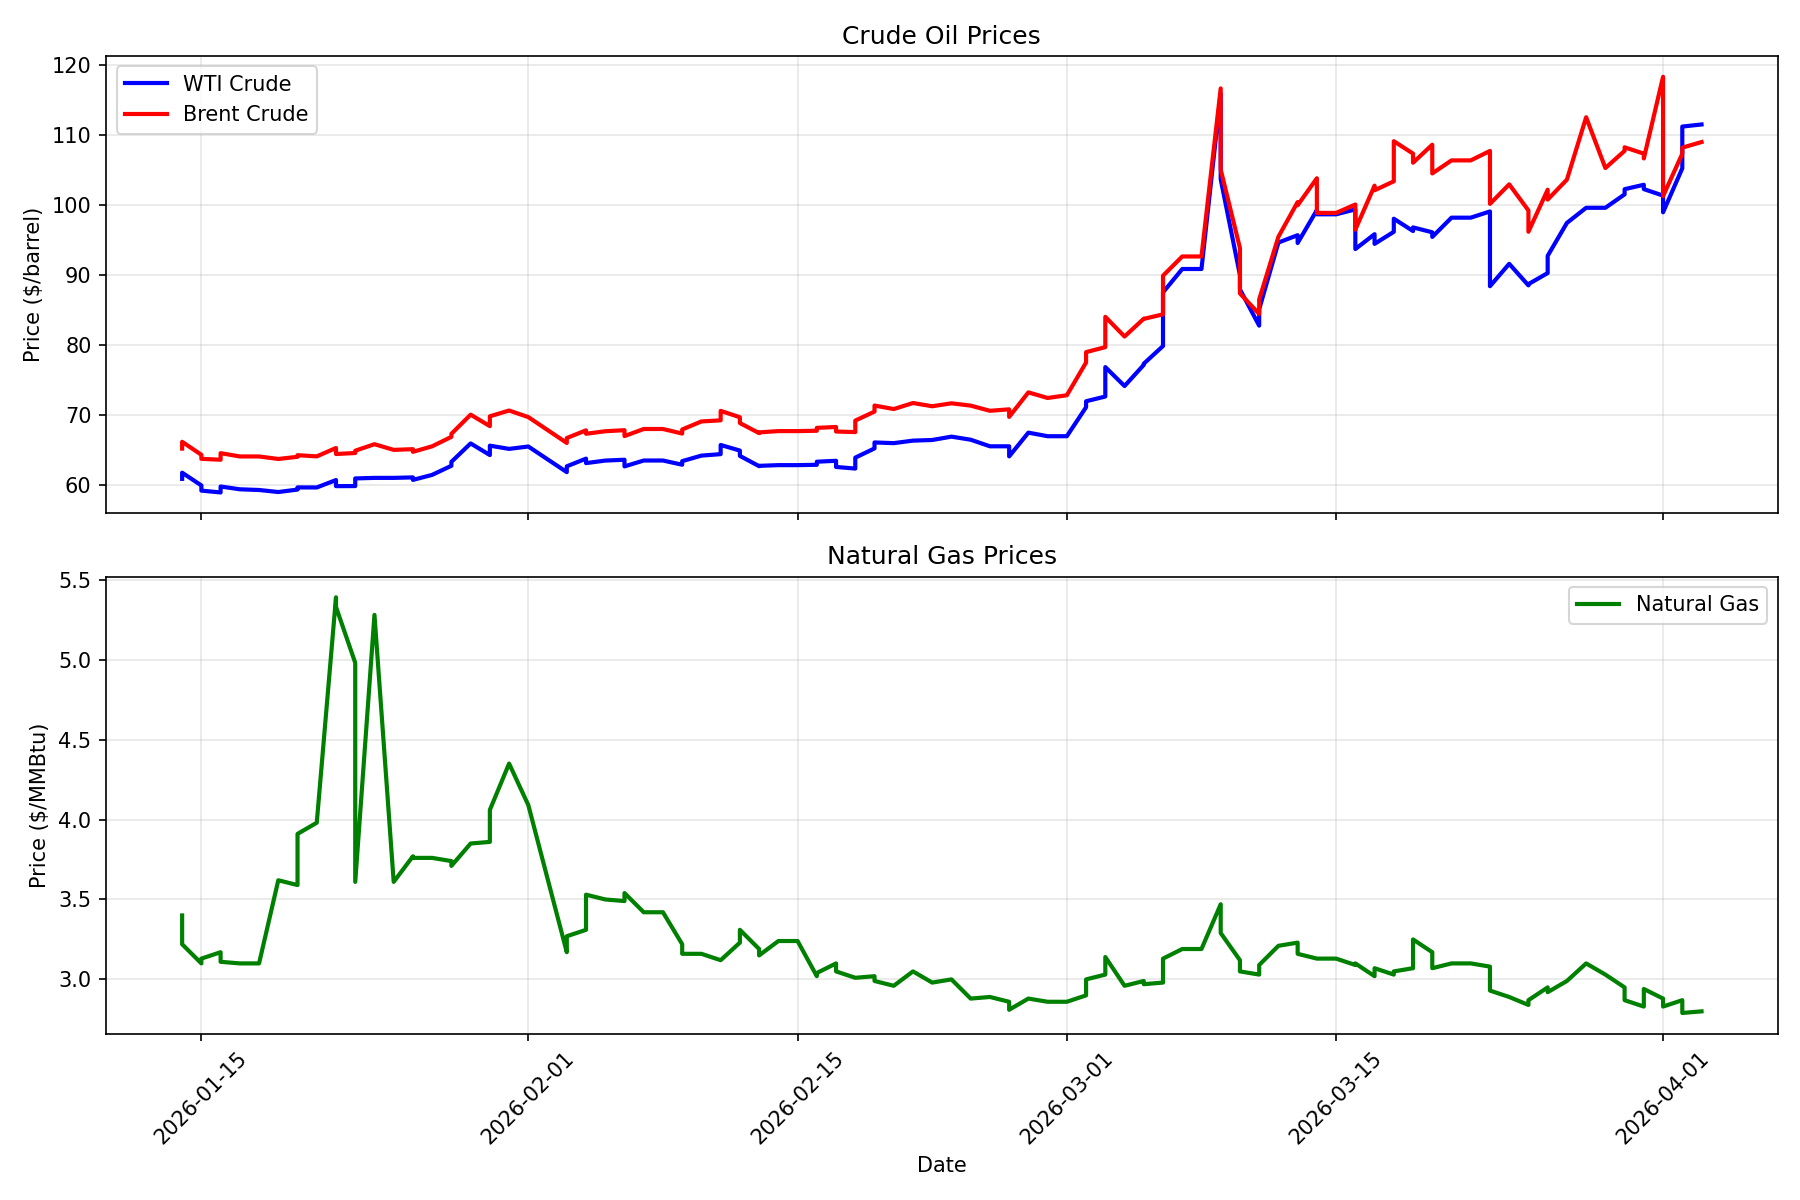
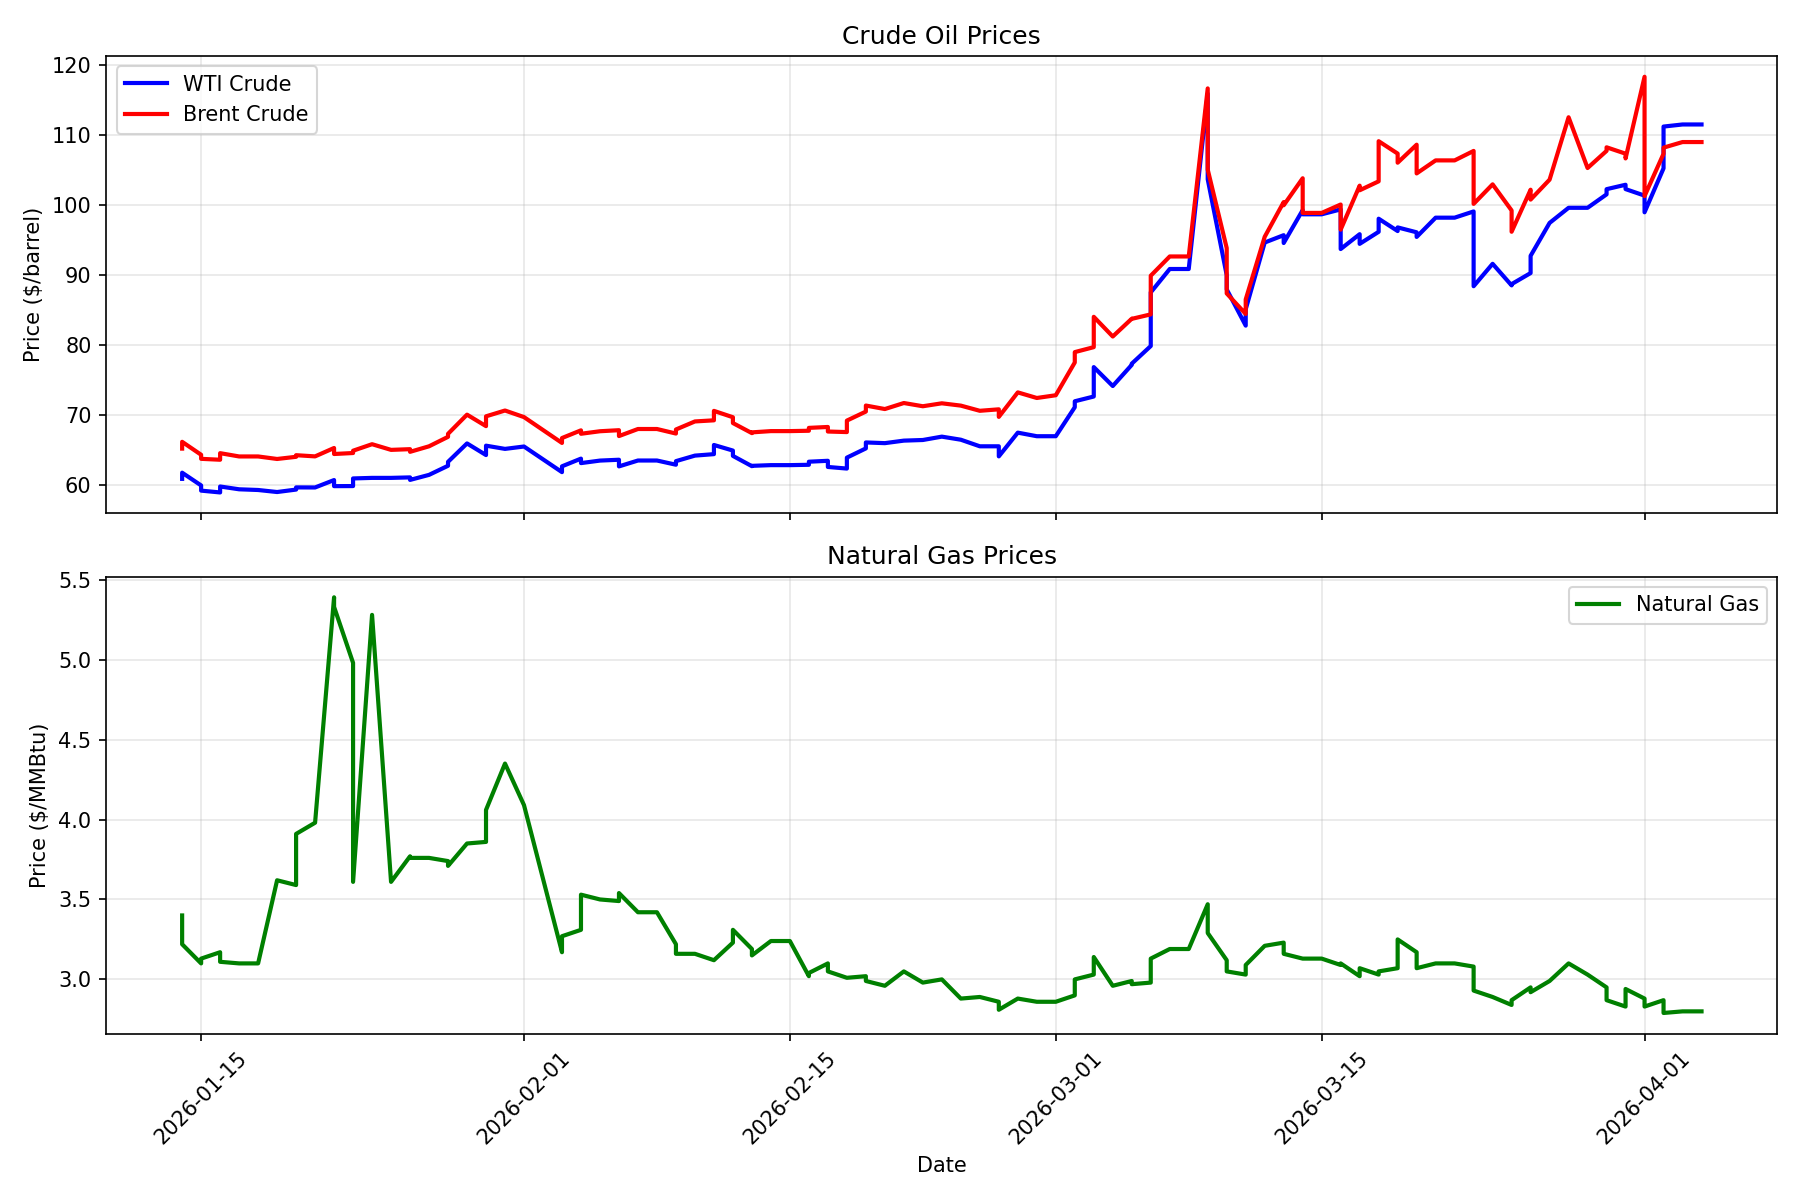
Daily price update: 2026-04-04

diff --git a/logs/update_log.md b/logs/update_log.md
@@ -145,3 +145,4 @@ Daily updates to the chemical engineering data repository.
 - **2026-04-02 14:25:50**: Updated 4 energy prices, 8 stocks, 0 FRED series
 - **2026-04-03 00:01:23**: Updated 4 energy prices, 8 stocks, 0 FRED series
 - **2026-04-03 14:14:38**: Updated 4 energy prices, 8 stocks, 0 FRED series
+- **2026-04-04 14:09:52**: Updated 4 energy prices, 8 stocks, 0 FRED series

diff --git a/README.md b/README.md
@@ -2,7 +2,7 @@
 
 Automated daily tracking of chemical commodity prices and chemical company stocks.
 
-## Latest Prices (Updated: 2026-04-03)
+## Latest Prices (Updated: 2026-04-04)
 
 ### Energy Commodities
 
